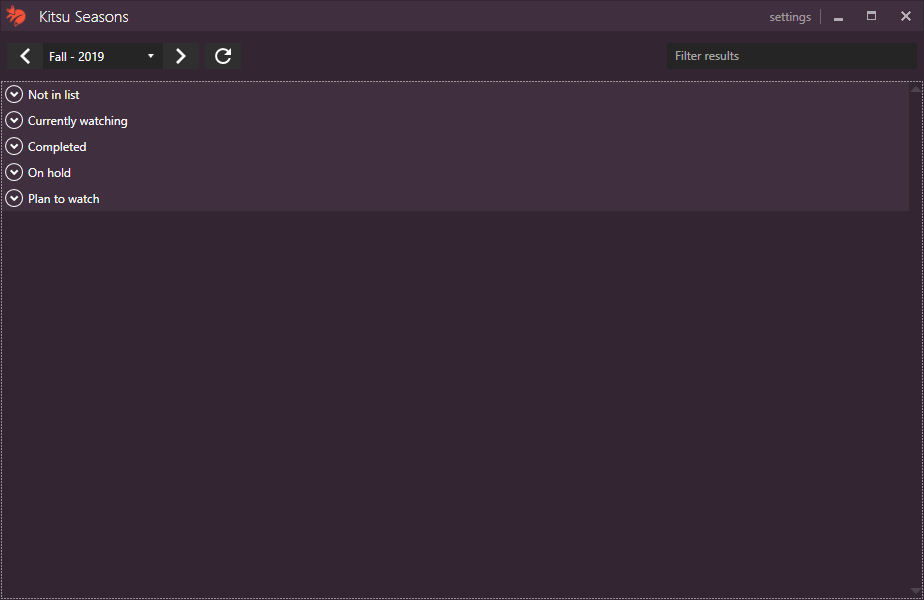
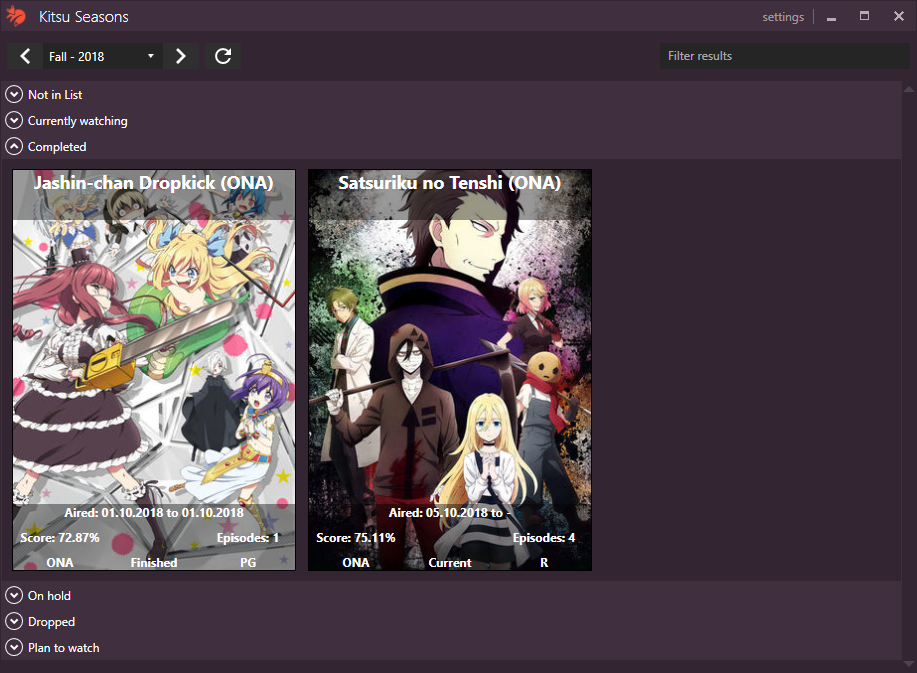
v1.0 :)

diff --git a/src/KitsuSeasons/Logic/Controller.cs b/src/KitsuSeasons/Logic/Controller.cs
@@ -88,9 +88,20 @@ namespace KitsuSeasons.Logic
 
         private async void LoadEntireSeason(ObservableCollection<ISeasonExpander> seasonExpanders, Season season, int year, int userId)
         {
-            var result = await Anime.GetSeason(season, year);
-            await GetSeasonData(seasonExpanders, userId, result);
-            await LoopSeasons(seasonExpanders, (string)result.links.next, userId);
+            try
+            {
+                for (int i = 0; i < seasonExpanders.Count(); i++)
+                {
+                    seasonExpanders[i].SeasonEntries.Clear();
+                }
+
+                var result = await Anime.GetSeason(season, year);
+                await GetSeasonData(seasonExpanders, userId, result);
+                await LoopSeasons(seasonExpanders, (string)result.links.next, userId);
+            }
+            catch (Exception)
+            {
+            }
         }
 
         private async Task<List<SeasonalAnime>> LoopSeasons(ObservableCollection<ISeasonExpander> seasonExpanders, string next, int userId)
@@ -134,7 +145,7 @@ namespace KitsuSeasons.Logic
                     seasonalAnime = new SeasonalAnime(id, name, (string)item.attributes.status, false);
                 }
 
-                await Application.Current.Dispatcher.BeginInvoke(DispatcherPriority.Background, new Action(() => AddSeasonalAnimeToList(seasonExpanders, seasonalAnime, animeDetails)));
+                await Application.Current.Dispatcher.BeginInvoke(DispatcherPriority.Background, new Action(() => AddSeasonalAnimeToList(seasonExpanders, seasonalAnime, animeDetails.data)));
             }
 
             return season;
@@ -142,9 +153,9 @@ namespace KitsuSeasons.Logic
 
         private void AddSeasonalAnimeToList(ObservableCollection<ISeasonExpander> seasonExpanders, SeasonalAnime anime, dynamic animeDetails)
         {
-            string smallImage = (string)animeDetails.data.attributes.posterImage.small;
+            string smallImage = (string)animeDetails.attributes.posterImage.small;
 
-            var imageLocation = DownloadImage(smallImage, anime.Id);
+            var imageLocation = LoadImage(smallImage, anime.Id);
 
             int index = 0;
             if (anime.IsInList)
@@ -168,14 +179,28 @@ namespace KitsuSeasons.Logic
                         break;
                 }
             }
-          
-            var seasonEntry = new SeasonEntry(anime.Name, 1, imageLocation, SeasonType.movie, AiringStatus.current, 1, "", AgeRating.G);
+
+
+            var seasonEntry = new SeasonEntry(anime.Name,
+                (string)animeDetails.attributes.episodeCount, 
+                imageLocation, 
+                (string)animeDetails.attributes.subtype, 
+                (string)animeDetails.attributes.status,
+                (string)animeDetails.attributes.averageRating,
+                (string)animeDetails.attributes.startDate, 
+                (string)animeDetails.attributes.endDate,
+                (string)animeDetails.attributes.ageRating);
+
             seasonExpanders[index].SeasonEntries.Add(seasonEntry);
         }
 
-        private string DownloadImage(string url, int animeId)
+        private string LoadImage(string url, int animeId)
         {
             string location = Path.Combine(DataStructure.ImageFolder, $"{animeId}.jpg");
+            if (File.Exists(location))
+            {
+                return location;
+            }
 
             using (WebClient client = new WebClient())
             {

diff --git a/src/KitsuSeasons/Models/Season.cs b/src/KitsuSeasons/Models/Season.cs
@@ -1,20 +1,27 @@
-using KitsuSeasons.Enums;
-using KitsuSeasons.Interfaces;
+using KitsuSeasons.Interfaces;
+using System;
+using System.Globalization;
 
 namespace KitsuSeasons.Models
 {
     public class SeasonEntry : ISeasonEntry
     {
-        public SeasonEntry(string name, int episodes, string imagePath, SeasonType type, AiringStatus status, double score, string airTime, AgeRating rating)
+        public SeasonEntry(string name, string episodes, string imagePath, string type, string status, string score, string startDate, string endDate, string rating)
         {
+            string formattedStartDate = string.IsNullOrWhiteSpace(startDate) ? "-" 
+                : DateTime.ParseExact(startDate, "yyyy-MM-dd", CultureInfo.InvariantCulture).ToString("dd.MM.yyyy");
+
+            string formattedEndDate = string.IsNullOrWhiteSpace(endDate) ? "-" 
+                : DateTime.ParseExact(endDate, "yyyy-MM-dd", CultureInfo.InvariantCulture).ToString("dd.MM.yyyy");
+
             Name = name;
             ImagePath = imagePath;
-            EpisodeText = $"Episodes: {episodes}";
-            Type = type;
-            Status = status;
-            ScoreText = $"Score: {score}%";
-            AiredText = $"Aired: Dec 25, 2017 to Jul 7, 2018"; //airTime
-            Rating = rating;
+            EpisodeText = $"Episodes: {GetValueOrDefault(episodes)}";
+            Type = UppercaseFirst(GetValueOrDefault(type.ToString()));
+            Status = UppercaseFirst(GetValueOrDefault(status.ToString()));
+            ScoreText = $"Score: {GetValueOrDefault(score)}%";
+            AiredText = $"Aired: {formattedStartDate} to {formattedEndDate}";
+            Rating = UppercaseFirst(GetValueOrDefault(rating));
         }
 
         public string ImagePath { get; }
@@ -23,14 +30,24 @@ namespace KitsuSeasons.Models
 
         public string EpisodeText { get; }
 
-        public SeasonType Type { get; }
+        public string Type { get; }
 
-        public AiringStatus Status { get; }
+        public string Status { get; }
 
         public string ScoreText { get; }
 
         public string AiredText { get; }
 
-        public AgeRating Rating { get; }
+        public string Rating { get; }
+
+        private static string UppercaseFirst(string text)
+        {
+            return char.ToUpper(text[0]) + text.Substring(1);
+        }
+
+        private string GetValueOrDefault(string value)
+        {
+            return string.IsNullOrWhiteSpace(value) ? "-" : value;
+        }
     }
 }

diff --git a/src/KitsuSeasons/Interfaces/ISeason.cs b/src/KitsuSeasons/Interfaces/ISeason.cs
@@ -10,14 +10,14 @@ namespace KitsuSeasons.Interfaces
 
         string EpisodeText { get; }
 
-        SeasonType Type { get; } 
+        string Type { get; } 
 
-        AiringStatus Status { get; }
+        string Status { get; }
 
         string ScoreText { get; }
 
         string AiredText { get; } 
 
-        AgeRating Rating { get; }
+        string Rating { get; }
     }
 }

diff --git a/src/KitsuSeasons/Enums/AgeRating.cs b/src/KitsuSeasons/Enums/AgeRating.cs
@@ -2,6 +2,7 @@
 {
     public enum AgeRating
     {
+        none,
         G,
         PG,
         R,

diff --git a/README.md b/README.md
@@ -1,6 +1,15 @@
 # Kitsu-Seasons [![Build status](https://ci.appveyor.com/api/projects/status/5rbsupnin5l89vdu?svg=true)](https://ci.appveyor.com/project/dreanor/kitsu-seasons)
 Search through seasons and see which ones aren't on your list
 
+# Features
+- Login to https://kitsu.io/
+- Look through all current and past seasons
+- See which ones are on your list
+
+## Upcoming
+- Save anime in your list
+- Filters
+
 # Building
 
 Clone the repository including submodules
